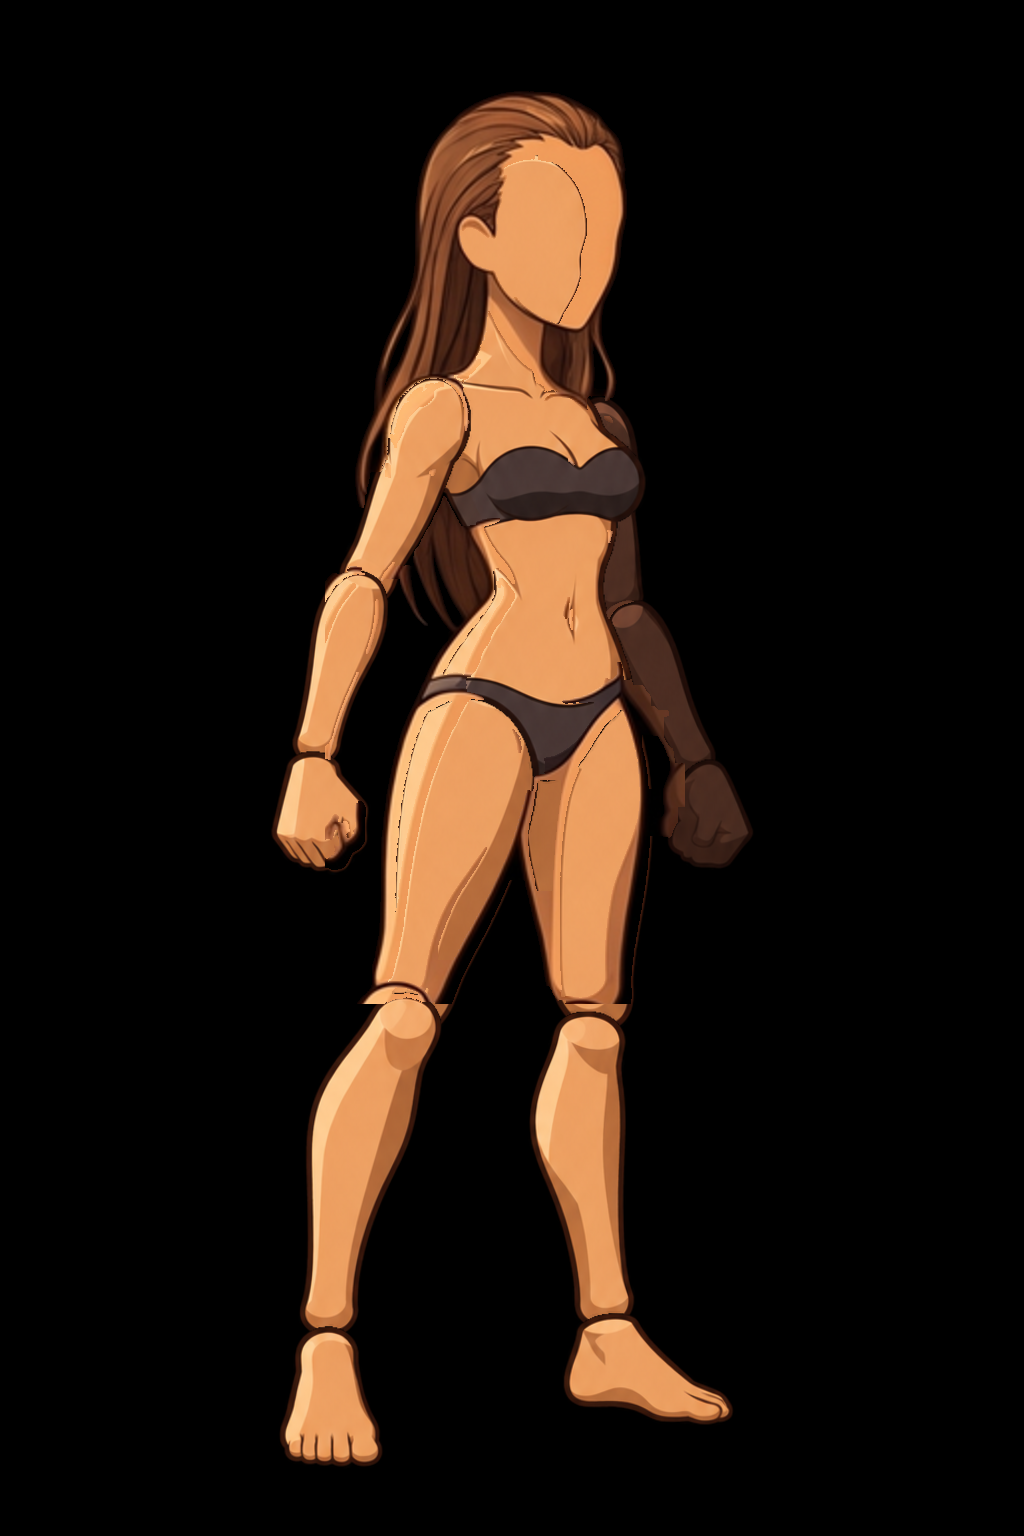
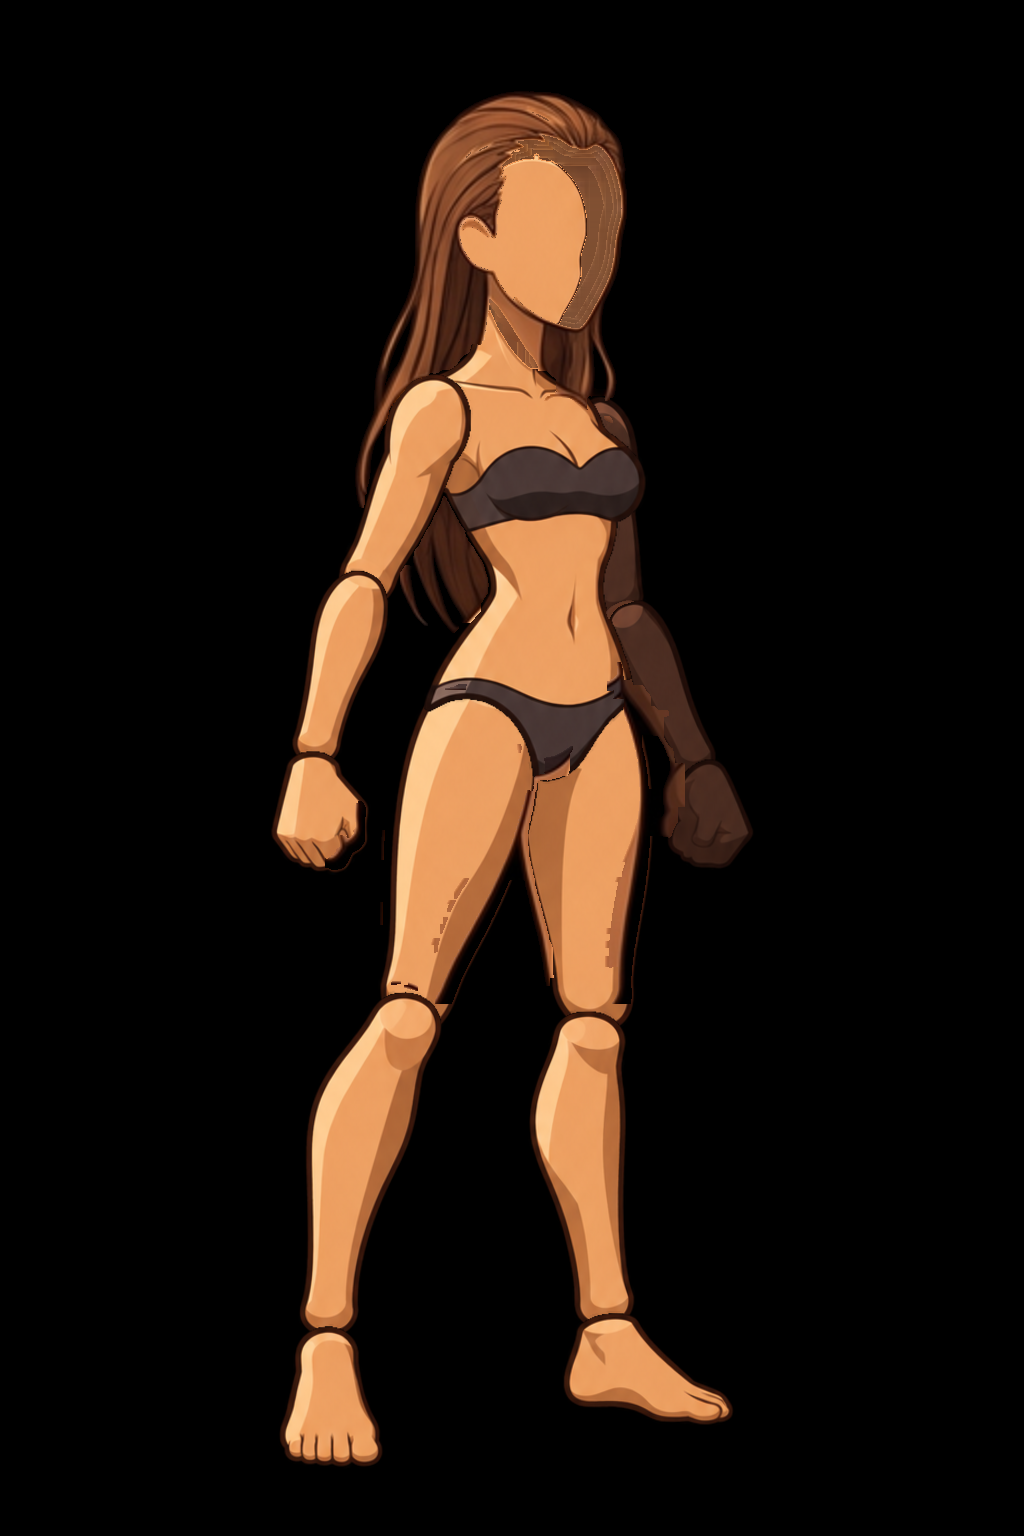
A repainted hair's far side is hair, not the painter's wider cheek
Painting the woman's two hairs again, the painter let her far cheek and brow out a
little, and cut as 'whatever is new' that skin came with the hair: a pale patch over
half the face in game. tools/part_sheet.py now takes skin that's new beside the head
for the hair's far side, in the shade of the hair round it, and drops it anywhere
else; both cells cut again. The atlases follow.

Claude-Session: https://claude.ai/code/session_01N47UGysUwqWC57BXeaRVAW

diff --git a/tools/part_sheet.py b/tools/part_sheet.py
@@ -1019,6 +1019,11 @@ def shine(labels, count, sizes, own, open_):
 #: piece lying EXTRA_ALONG of its length on the base's outline (the outline drawn a pixel off).
 EXTRA_DRIFT, EXTRA_CHANGED, EXTRA_MARK = 3, 24, 13
 EXTRA_SPECK, EXTRA_DOT, EXTRA_ALONG = 14, 5, 0.7
+#: A repainted hair's skin (extra_part): lighter than HAIR_SKIN_LUM, in the skin's hues (EAR_HUE);
+#: the line left round it is HAIR_SKIN_LINE thick or less, or a scrap under HAIR_SKIN_SCRAP pixels.
+HAIR_SKIN_LUM, HAIR_SKIN_LINE, HAIR_SKIN_SCRAP = 150.0, 3, 500
+#: Within HAIR_SKIN_NEAR pixels of the head that skin is the hair's far side: hair, HAIR_SKIN_SHADE as bright as the hair round it.
+HAIR_SKIN_NEAR, HAIR_SKIN_SHADE = 36, 0.8
 #: Where a painter puts an ear on the blank head, as shares of the head's box (left of its left
 #: edge, right of it, and down from its top to the ear's top and its bottom); the skin's hues there
 #: (green and blue against red, least and most), and what's dark enough to be the line round it.
@@ -1063,6 +1068,40 @@ def extra_part(out, b, ref, covered, base_name, part):
     mark = part.startswith("skin-")
     drift = _drift(out, ref, EXTRA_DRIFT)
     new = (drift > (EXTRA_MARK if mark else EXTRA_CHANGED)) & covered
+    if part.startswith("hair-"):
+        # A hair painted again on the template's head: where the painter let the far cheek, the
+        # neck or a shoulder out a little, there's skin where the base has its outline or the
+        # black, and it's new. It isn't hair: what's as light as skin and in the skin's hues goes
+        # (a mid-brown hair's highlight is darker), and the thin dark line left round it.
+        c_ = out.astype(np.float64)
+        red_ = np.maximum(c_[..., 0], 1.0)
+        light = c_ @ np.array([0.299, 0.587, 0.114]) > HAIR_SKIN_LUM
+        skin_hue = ((c_[..., 0] >= c_[..., 1]) & (c_[..., 1] >= c_[..., 2]) & (c_[..., 1] / red_ >= EAR_HUE[0]) & (c_[..., 1] / red_ <= EAR_HUE[1])
+                    & (c_[..., 2] / red_ >= EAR_HUE[2]) & (c_[..., 2] / red_ <= EAR_HUE[3]))
+        moved = new & light & skin_hue
+        # Beside the head that skin is where the hair's far side shows past the cheek or the brow
+        # on the painter's wider head: taken away it would leave the sky between the face and the
+        # hair, so it's hair, in the shade of the hair round it. Anywhere else it simply goes.
+        behind = moved & ic.grow(_on_head(base_name), HAIR_SKIN_NEAR)
+        if behind.any():
+            lum_ = c_ @ np.array([0.299, 0.587, 0.114])
+            body_ = (new & ~moved & (lum_ > FIT_LINE * 2)).astype(np.float64)
+            near_ = ic.local_mean(c_, body_, (4, 8, 16, 32, 64))
+            behind &= ~np.isnan(near_[:, :, 0])
+            out = out.copy()
+            out[behind] = np.rint(np.clip(near_[behind] * HAIR_SKIN_SHADE, 0, 255)).astype(out.dtype)
+        moved &= ~behind
+        new &= ~moved
+        thin = new & ~ic.grow(~ic.grow(~new, HAIR_SKIN_LINE), HAIR_SKIN_LINE)
+        new &= ~(thin & ic.grow(moved, HAIR_SKIN_LINE + 1) & ~ic.grow(new & ~thin, 1))
+        scraps, n_ = ic.components(new)
+        if n_:
+            small = np.bincount(scraps.ravel(), minlength=n_ + 1) < HAIR_SKIN_SCRAP
+            beside = np.zeros(n_ + 1, bool)
+            beside[np.unique(scraps[ic.grow(moved, HAIR_SKIN_LINE + 1) & new])] = True
+            gone = small & beside
+            gone[0] = False
+            new &= ~gone[scraps]
     figure = ref.max(axis=2) >= FIT_BLACK
     edge = ic.grow(((ref.astype(np.float64) @ np.array([0.299, 0.587, 0.114]) < FIT_LINE) & figure)
                    | (ic.grow(figure, 1) & ic.grow(~figure, 1)), 2)
